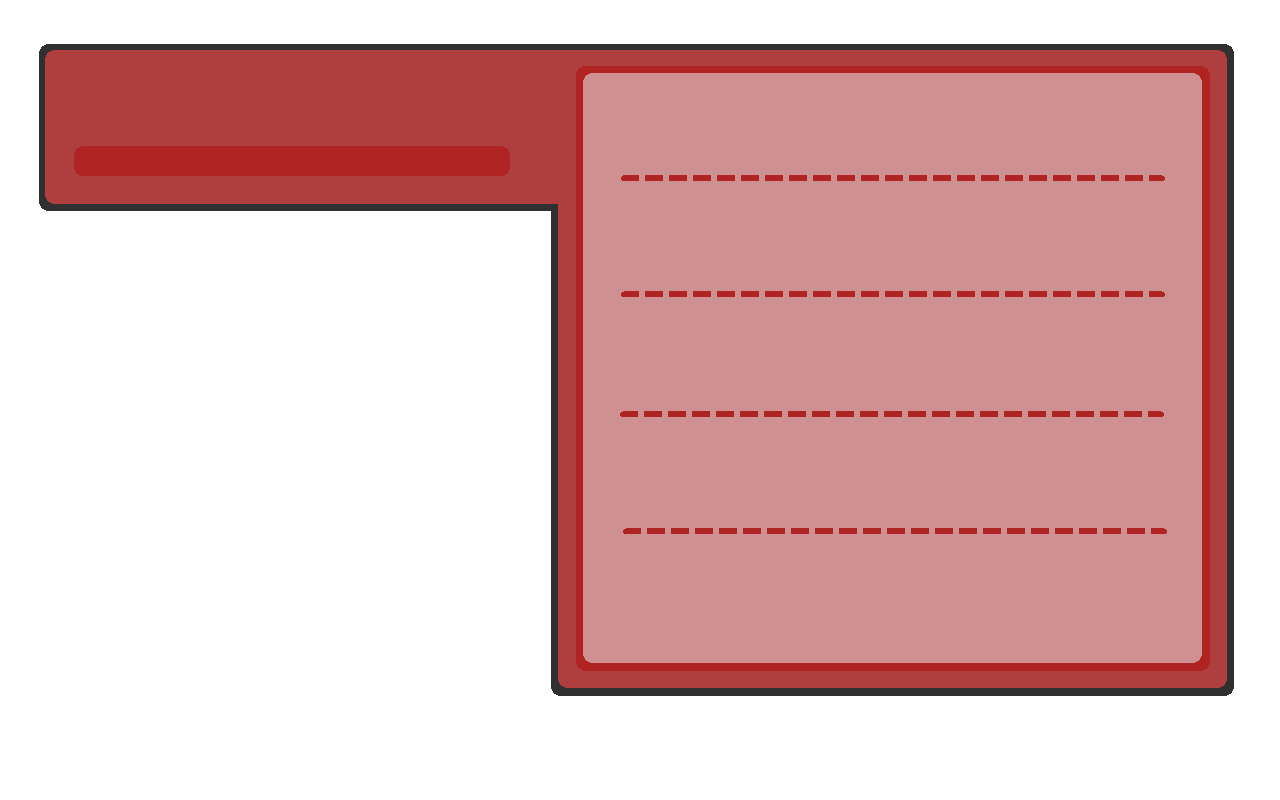
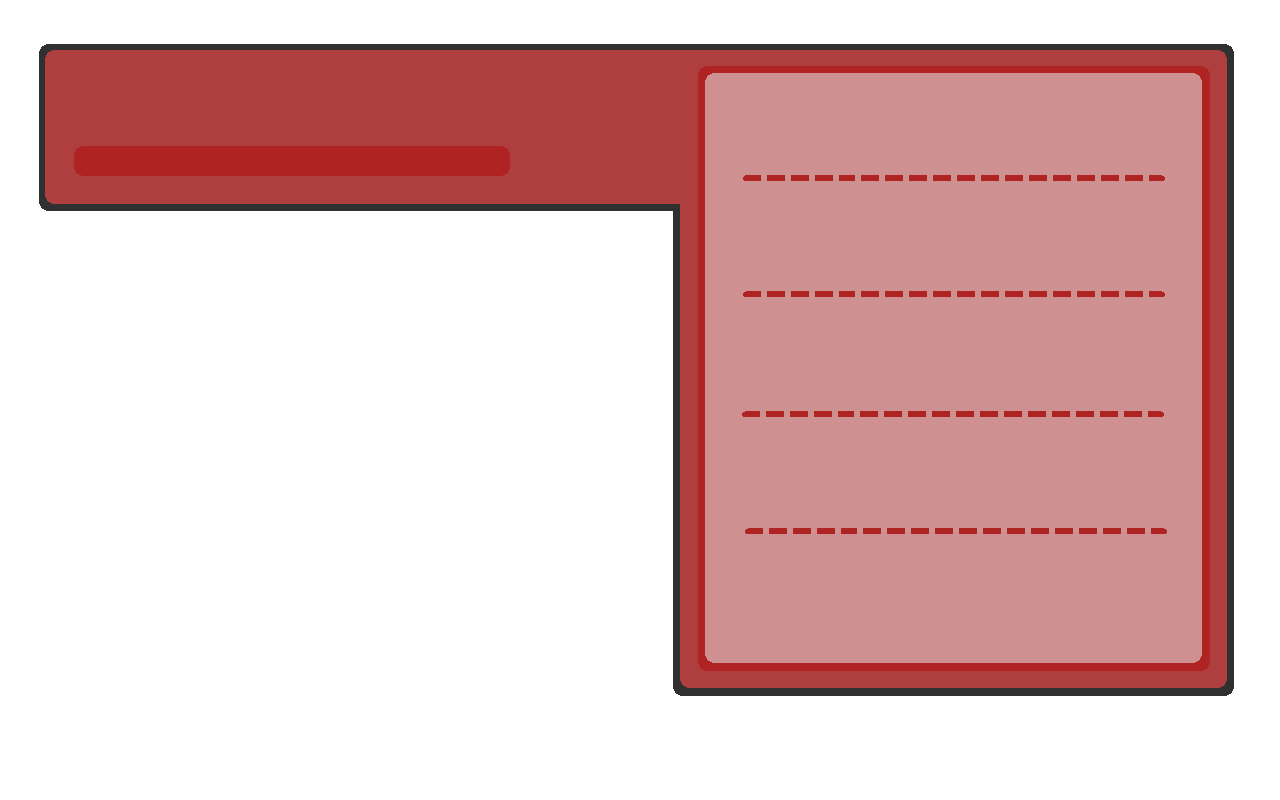
Prahadex Upgrade

Changed region(s): [[0.4062, 0.0625, 0.5938, 0.875]]

diff --git a/prahadex.py b/prahadex.py
@@ -1,9 +1,10 @@
 import pygame
 import npc
-
+import nastaveni as imgs
 
 class Prahadex:
     def __init__(self, capacity = 999):
+
         self.prahamoni = {}
         self.capacity = capacity
 
@@ -19,13 +20,25 @@ class Prahadex:
             return True
         return False
 
-    def draw(self, screen, font, offset=0, limit=4):
+    def draw(self, screen, font, offset=0, limit=4, pozice=1, imgs=None):
         x, y = 830, 110
         items = list(self.prahamoni.values())
         visible = items[offset:offset + limit]
+        if imgs is not None and items:
+            vybran = items[pozice - 1] if pozice <= len(items) else items[0]
+            obrazek = pygame.transform.scale(imgs.prahamon_obrazky.get(vybran.name), (250, 250))
+            if obrazek:
+                screen.blit(obrazek, (70, 260))
+            screen.blit(font.render(f"{vybran.hp}/{vybran.maxhp}hp", True, (50, 50, 50)), (404, 281))
+            screen.blit(font.render(f"{vybran.hp}/{vybran.maxhp}hp", True, (255, 255, 255)), (400, 277))
+            screen.blit(font.render(f"{vybran.lvl}. lvl", True, (50, 50, 50)), (404, 351))
+            screen.blit(font.render(f"{vybran.lvl}. lvl", True, (255, 255, 255)), (400, 347))
+            screen.blit(font.render(f"{vybran.name}", True, (50, 50, 50)), (94, 579))
+            screen.blit(font.render(f"{vybran.name}", True, (255, 255, 255)), (90, 574))
         for p in visible:
-            text = font.render(f"{p.name} : {p.hp}/{p.maxhp}hp", True, (0, 0, 0))
-            screen.blit(text, (x, y))
+            screen.blit(font.render(f"{p.name}", True, (50, 50, 50)), (x + 4, y + 4))
+            screen.blit(font.render(f"{p.name}", True, (255, 255, 255)), (x, y))
+
             y += 120
 
 

diff --git a/gadakecemol.py b/gadakecemol.py
@@ -237,9 +237,10 @@ class Hra:
 
             if self.show_prahadex:
                 self.screen.blit(imgs.prahadex, (0, 0))
+                self.screen.blit(imgs.prahadexdesc, (0, 0))
                 self.screen.blit(self.bigfont.render("PRAHADEX", False, (50, 50, 50)), (125, 95))
                 self.screen.blit(self.bigfont.render("PRAHADEX", False, (255, 255, 255)), (120, 90))
-                prahadex.prahadex.draw(self.screen,self.font,self.inventar_offset, 4)
+                prahadex.prahadex.draw(self.screen, self.font, self.inventar_offset, 4, self.poziceinventare, imgs)
                 prahadex.sipecka(self.screen,imgs,self.poziceinventare, self.inventar_offset)
 
             if self.show_mapa:

diff --git a/nastaveni.py b/nastaveni.py
@@ -50,6 +50,7 @@ prava.append(img("obrazky/prava_4.png", velikost_postavy))
 
 mapa = img("obrazky/mapa/img.png", velikost_postavy)
 prahadex = img("obrazky/prahadex.png", (sirka_okna, vyska_okna))
+prahadexdesc = img("obrazky/prahadexshow.png", (sirka_okna, vyska_okna))
 inventar = img("obrazky/inventar.png", (sirka_okna, vyska_okna))
 mapicka = img("obrazky/mapa/mapicka.png", (sirka_okna, vyska_okna))
 dialogoveokno = img("obrazky/dialogoveokno.png", (sirka_okna, vyska_okna))
